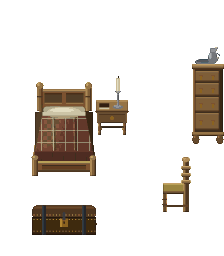
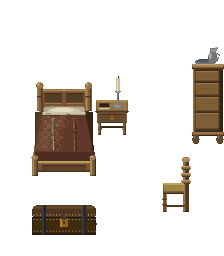
LLM-969: Inn rooms, designer pass 2

Changed region(s): [[0.1562, 0.4375, 0.4062, 0.5938]]

diff --git a/tools/interior-art/inn.py b/tools/interior-art/inn.py
@@ -36,7 +36,7 @@ import random
 import re
 import sys
 
-from PIL import Image, ImageDraw, ImageFilter
+from PIL import Image, ImageChops, ImageDraw, ImageFilter
 
 import common as C
 from common import ramp
@@ -383,6 +383,20 @@ def ledger(room, x0, y0, x1, y1):
         room.rect(mid + 0.8, yy, x1 - 0.8 - ((k + 1) % 3) * 0.8, yy + 0.5, ramp(C.TIMBER, 0.3))
 
 
+def top_light(room, x0, y0, x1, y1, rnd):
+    """A board top's timber: the light pooling toward its upper left, a few
+    short uneven grain marks."""
+    glow = Image.new("L", room.lay.size, 0)
+    ImageDraw.Draw(glow).ellipse(((x0 - 6) * C.S, (y0 - 4) * C.S, (x0 + (x1 - x0) * 0.55) * C.S, (y1 - 2) * C.S), fill=60)
+    mask = Image.new("L", room.lay.size, 0)
+    ImageDraw.Draw(mask).rectangle((x0 * C.S, y0 * C.S, x1 * C.S - 1, y1 * C.S - 1), fill=255)
+    glow = ImageChops.multiply(glow.filter(ImageFilter.GaussianBlur(3 * C.S)), mask)
+    room.lay.paste(Image.new("RGBA", room.lay.size, C.B.rgb(C.OAK[-1])), (0, 0), glow)
+    for _ in range(int((x1 - x0) / 5)):
+        gx, gy = rnd.uniform(x0 + 1, x1 - 4), rnd.uniform(y0 + 1, y1 - 1)
+        room.line([(gx, gy), (gx + rnd.uniform(1.5, 3.5), gy + rnd.uniform(-0.3, 0.3))], ramp(C.OAK, 0.6), 0.3)
+
+
 def keeper_desk(room, x, y, w, h, rnd):
     """The keeper's desk, a joined oak counter seen from the front at a
     slant: a two-board top with a moulded front edge; the front framed in
@@ -402,6 +416,7 @@ def keeper_desk(room, x, y, w, h, rnd):
     room.rect(x, top0, x + w, top0 + 0.7, ramp(C.OAK, 0.98))
     room.rect(x, top0, x + 0.7, top1, ramp(C.OAK, 0.94))
     room.rect(x + w - 2.0, top0, x + w, top1, ramp(C.OAK, 0.6))
+    top_light(room, x, top0, x + w, top1, rnd)
     # The moulded front edge: a lit round, a dark cove under it.
     room.rect(x - 0.4, top1, x + w + 0.4, top1 + 1.2, ramp(C.OAK, 0.84))
     room.rect(x - 0.4, top1 + 1.2, x + w + 0.4, top1 + 2.4, ramp(C.OAK, 0.3))
@@ -467,6 +482,7 @@ def joined_table(room, x, y, w, h, rnd):
     room.rect(x, top0, x + w, top0 + 0.7, ramp(C.OAK, 0.98))
     room.rect(x, top0, x + 0.7, top1, ramp(C.OAK, 0.9))
     room.rect(x + w - 2.0, top0, x + w, top1, ramp(C.OAK, 0.6))
+    top_light(room, x, top0, x + w, top1, rnd)
     room.rect(x - 0.4, top1, x + w + 0.4, top1 + 1.0, ramp(C.OAK, 0.9))
     room.rect(x - 0.4, top1 + 1.0, x + w + 0.4, top1 + 1.8, ramp(C.OAK, 0.2))
     room.rect(x + w - 1.5, top1 + 1.8, x + w - 0.2, top1 + 5.2, ramp(C.OAK, 0.18))
@@ -593,19 +609,25 @@ def pot_strip(frames=4):
             room.line([(lx, top), (lx + (lx - cx) * 0.12, bot)], ramp(C.IRON, t), 0.9)
             room.ellipse(lx - 1.0 + (lx - cx) * 0.12, bot - 0.6, lx + 1.0 + (lx - cx) * 0.12, bot + 0.4, ramp(C.IRON, t))
         room.ellipse(cx - 9.5, 20.6, cx + 9.5, 27.4, ramp(C.IRON, 0.3))
-        room.ellipse(cx - 8.7, 20.8, cx + 8.7, 25.6, ramp(C.FIRE, 0.18))
-        glow = 0.45 + 0.08 * math.sin(ph)
-        room.speckle(cx - 7.6, 21.2, cx + 7.6, 25.0, 40, C.FIRE, (glow, glow + 0.15, glow + 0.32, 0.25), rnd, (0.5, 1.0))
+        room.ellipse(cx - 8.7, 20.8, cx + 8.7, 25.6, ramp(C.SOOT, 0.4))
+        # Coals: dark lumps with their glowing seams breathing between them.
+        glow = 0.32 + 0.1 * math.sin(ph)
+        room.speckle(cx - 7.6, 21.4, cx + 7.6, 24.8, 14, C.FIRE, (glow, glow + 0.14, glow + 0.28), rnd, (0.4, 0.8))
+        room.speckle(cx - 7.6, 21.2, cx + 7.6, 25.0, 22, C.IRON, (0.08, 0.16, 0.24), rnd, (0.8, 1.5))
         room.rect(cx - 9.5, 24.6, cx + 9.5, 25.2, ramp(C.IRON, 0.55))
         room.rect(cx - 9.0, 25.2, cx + 9.0, 25.8, ramp(C.IRON, 0.12))
         # The pot: a round iron belly lit from below by the coals, its rim,
         # the stew, the bail handle.
+        # The trivet the pot stands on in the pan.
+        for tx in (cx - 4.0, cx + 0.6, cx + 4.4):
+            room.rect(tx - 0.5, 21.0, tx + 0.5, 24.2, ramp(C.IRON, 0.05))
+        room.rect(cx - 5.2, 20.6, cx + 5.2, 21.4, ramp(C.IRON, 0.12))
         room.ellipse(cx - 5.4, 12.6, cx + 5.4, 23.0, ramp(C.IRON, 0.3))
         room.ellipse(cx - 4.6, 13.4, cx - 1.0, 18.6, ramp(C.IRON, 0.58))
         room.ellipse(cx - 3.8, 14.0, cx - 2.2, 16.2, ramp(C.IRON, 0.85))
         room.ellipse(cx + 2.0, 14.4, cx + 5.0, 20.6, ramp(C.IRON, 0.18))
-        room.ellipse(cx - 4.4, 20.0, cx + 4.4, 23.0, ramp(C.FIRE, 0.3 + 0.06 * math.sin(ph + 1.0)))
-        room.ellipse(cx - 3.8, 20.0, cx + 3.8, 22.2, ramp(C.IRON, 0.3))
+        room.ellipse(cx - 4.4, 20.4, cx + 4.4, 23.0, ramp(C.FIRE, 0.22 + 0.05 * math.sin(ph + 1.0)))
+        room.ellipse(cx - 3.8, 20.0, cx + 3.8, 22.4, ramp(C.IRON, 0.3))
         room.ellipse(cx - 5.4, 11.2, cx + 5.4, 14.4, ramp(C.IRON, 0.62))
         room.ellipse(cx - 4.5, 11.7, cx + 4.5, 13.8, ramp(C.OAK, 0.3))
         for b in range(3):
@@ -650,9 +672,9 @@ def candle_strip(frames=4):
         room.rect(cx + 0.6, base - 14.2, cx + 1.3, base - 11.6, ramp(C.LINEN, 0.88))
         room.rect(cx - 0.15, base - 15.6, cx + 0.2, base - 14.4, ramp(C.SOOT, 0.3))
         # The flame.
-        lean = (0.0, 1.0, -0.7, 0.5)[k % 4]
-        tall = (4.6, 5.6, 3.8, 5.0)[k % 4]
-        width = (1.8, 1.5, 2.1, 1.7)[k % 4]
+        lean = (0.0, 0.1, 1.5, -0.7)[k % 4]
+        tall = (5.2, 3.4, 4.8, 4.4)[k % 4]
+        width = (1.6, 2.4, 1.7, 1.9)[k % 4]
         fb = base - 14.8
         for scale, tone in ((1.0, 0.5), (0.74, 0.72), (0.5, 0.9), (0.26, 1.0)):
             half = width * scale
@@ -826,17 +848,19 @@ def hall_door_open(seed=803):
         room.rect(2.4, yy, 29.6, yy + 3.2, ramp(C.FLOOR, 0.22 + k * 0.06))
         room.rect(2.4, yy + 3.0, 29.6, yy + 3.4, ramp(C.FLOOR, 0.08))
     # Window light from the chamber's casement lying across its floor.
-    room.poly([(16, 20.5), (24, 20.5), (29.6, 31.6), (20, 31.6)], ramp(C.FLOOR, 0.6))
-    room.poly([(17.5, 21), (22.5, 21), (26.5, 30.5), (21, 30.5)], ramp(C.FLOOR, 0.72))
-    room.rect(17, 6, 24, 15, ramp(C.DAYLIGHT, 0.2))
-    room.rect(20.2, 6, 20.8, 15, ramp(C.GLASS, 0.15))
+    room.poly([(16, 20.5), (24, 20.5), (29.6, 31.6), (20, 31.6)], ramp(C.FLOOR, 0.4))
+    room.poly([(17.5, 21), (22.5, 21), (26.5, 30.5), (21, 30.5)], ramp(C.FLOOR, 0.46))
+    room.rect(17, 6, 24, 15, ramp(C.GLASS, 0.42))
+    room.rect(17, 6, 24, 9, ramp(C.GLASS, 0.55))
+    room.rect(20.2, 6, 20.8, 15, ramp(C.GLASS, 0.12))
     room.rect(16.4, 5.4, 24.6, 6.0, ramp(C.TIMBER, 0.3))
     room.rect(16.4, 15, 24.6, 15.8, ramp(C.TIMBER, 0.35))
     # The leaf, swung in on its hinges: its face foreshortened, darker
     # toward its far edge, a hinge strap showing.
-    room.poly([(2.4, 2.6), (8.6, 5.0), (8.6, 29.4), (2.4, 32)], ramp(C.OAK, 0.4))
+    room.poly([(2.4, 2.6), (8.6, 5.0), (8.6, 29.4), (2.4, 32)], ramp(C.OAK, 0.48))
     room.poly([(2.4, 2.6), (4.2, 3.3), (4.2, 32), (2.4, 32)], ramp(C.OAK, 0.56))
     room.rect(8.0, 5.0, 8.6, 29.4, ramp(C.OAK, 0.2))
+    room.rect(8.6, 5.0, 9.4, 29.4, ramp(C.SOOT, 0.0))
     for hy in (7.5, 24.5):
         room.poly([(2.4, hy), (8.0, hy + 1.0), (8.0, hy + 2.0), (2.4, hy + 1.4)], ramp(C.IRON, 0.35))
     door_frame(room, 0, 0, 32, 32, rnd)
@@ -1007,11 +1031,33 @@ def trunk(room, x, y, w, h, rnd):
     room.line([(x + w - 0.8, lid + 1.6), (x + w + 0.0, lid + 3.6), (x + w - 0.8, lid + 5.4)], ramp(LEATHER, 0.3), 0.6)
 
 
+def weave(room, x0, y0, x1, y1, rnd):
+    """Break the guest coverlet's even check into homespun: its pale cross
+    threads (the kit's undyed linen) dyed down toward the madder-brown in
+    uneven runs, and short weft slubs over the cloth."""
+    pale = ramp(C.LINEN, 0.45)
+    box = tuple(int(round(v * C.S)) for v in (x0, y0, x1, y1))
+    px = room.lay.load()
+    run = 3 * C.S
+    for y in range(box[1], box[3]):
+        for x in range(box[0], box[2]):
+            c = px[x, y]
+            # The thread's colour, or the thread brightened where the light
+            # lies on the mattress.
+            if c[3] and sum(abs(c[i] - pale[i]) for i in range(3)) < 60:
+                seg = random.Random(hash((x // run, y // run, 969)) & 0xffff).uniform(0.46, 0.7)
+                px[x, y] = ramp(FADED, seg)
+    for _ in range(int((x1 - x0) * (y1 - y0) / 6)):
+        sx, sy = rnd.uniform(x0 + 3.8, x1 - 5.8), rnd.uniform(y0 + 0.5, y1 - 0.3)
+        room.rect(sx, sy, sx + rnd.uniform(0.8, 2.2), sy + 0.25, ramp(FADED, rnd.choice((0.3, 0.52, 0.62))))
+
+
 def guest_pieces(seed=848):
     w, h = 112, 128
     rnd = random.Random(seed)
     room = C.Room(w, h)
     C.rope_bed(room, 16, 44, 32, 44, FADED, rnd, "check")
+    weave(room, 17.6, 56, 46.4, 75.5, rnd)
     trunk(room, 16, 102, 32, 16, rnd)
     candle_stand(room, 48, 32, 16, 36, rnd)
     chest_of_drawers(room, 96, 24, 16, 48, rnd)
